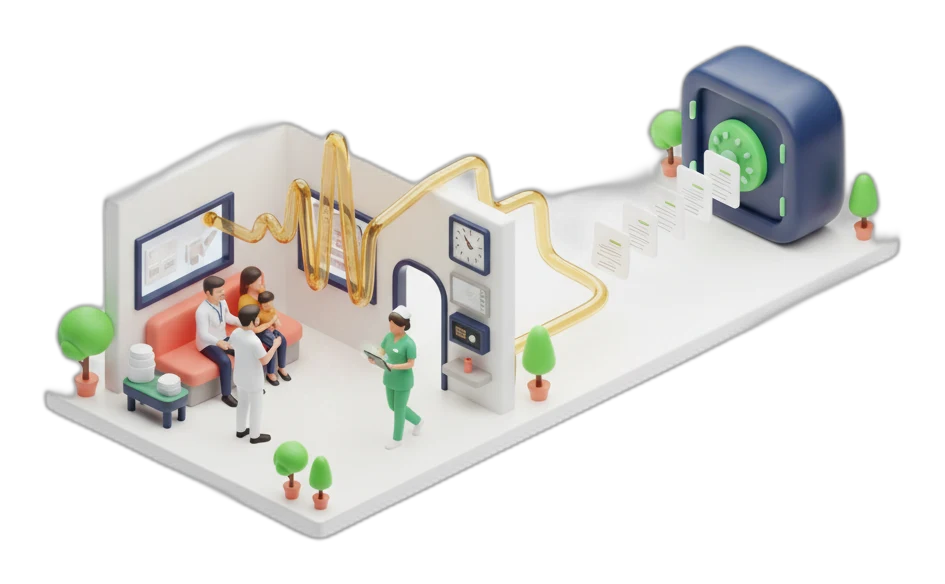
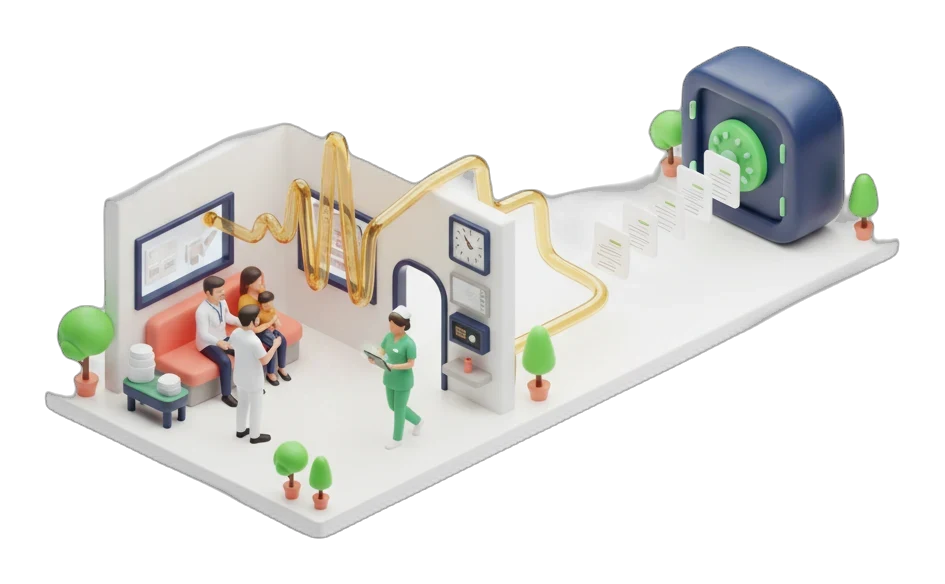
style(hero): remove CTA buttons/note from hero, kill grey alpha halo on diorama

diff --git a/src/components/grass/HeroGrass.tsx b/src/components/grass/HeroGrass.tsx
@@ -1,5 +1,4 @@
 import React, { useEffect, useRef } from 'react';
-import { Link } from 'react-router-dom';
 
 import { Rv } from './Rv';
 
@@ -49,17 +48,6 @@ export const HeroGrass: React.FC = () => {
             consult — and turns the audio into complete clinical documentation, checked
             against your policies. The clinician verifies. The record is sealed.{' '}
             <b>You can prove what happened.</b>
-          </p>
-          <div className="g-hero-ctas">
-            <Link className="g-btn g-btn--green" to="/start">
-              Start free — 50 notes on us
-            </Link>
-            <a className="g-btn g-btn--ghost" href="#demo">
-              Watch the demo
-            </a>
-          </div>
-          <p className="g-hero-note">
-            No card needed · Works alongside your HMIS · Unlimited staff on every plan
           </p>
         </div>
 
